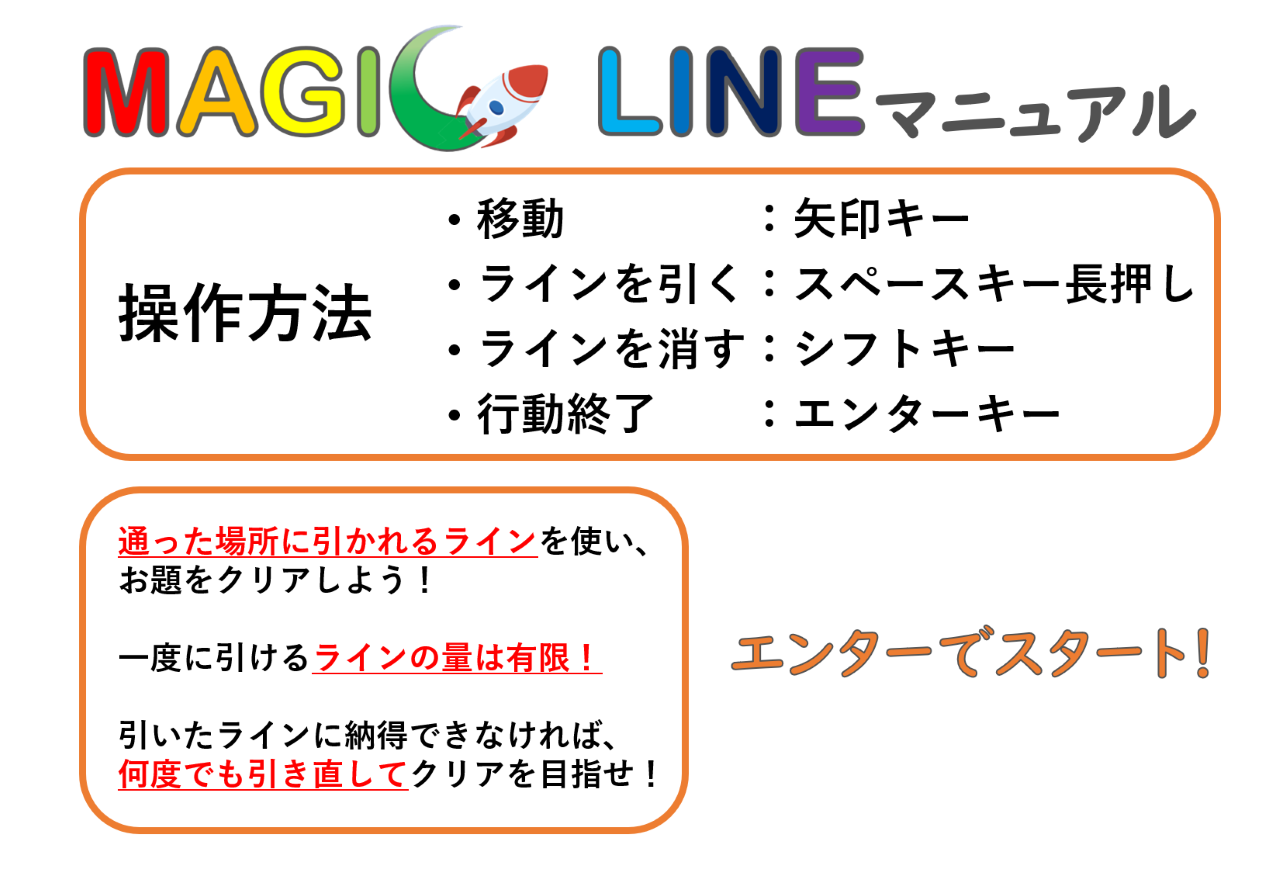
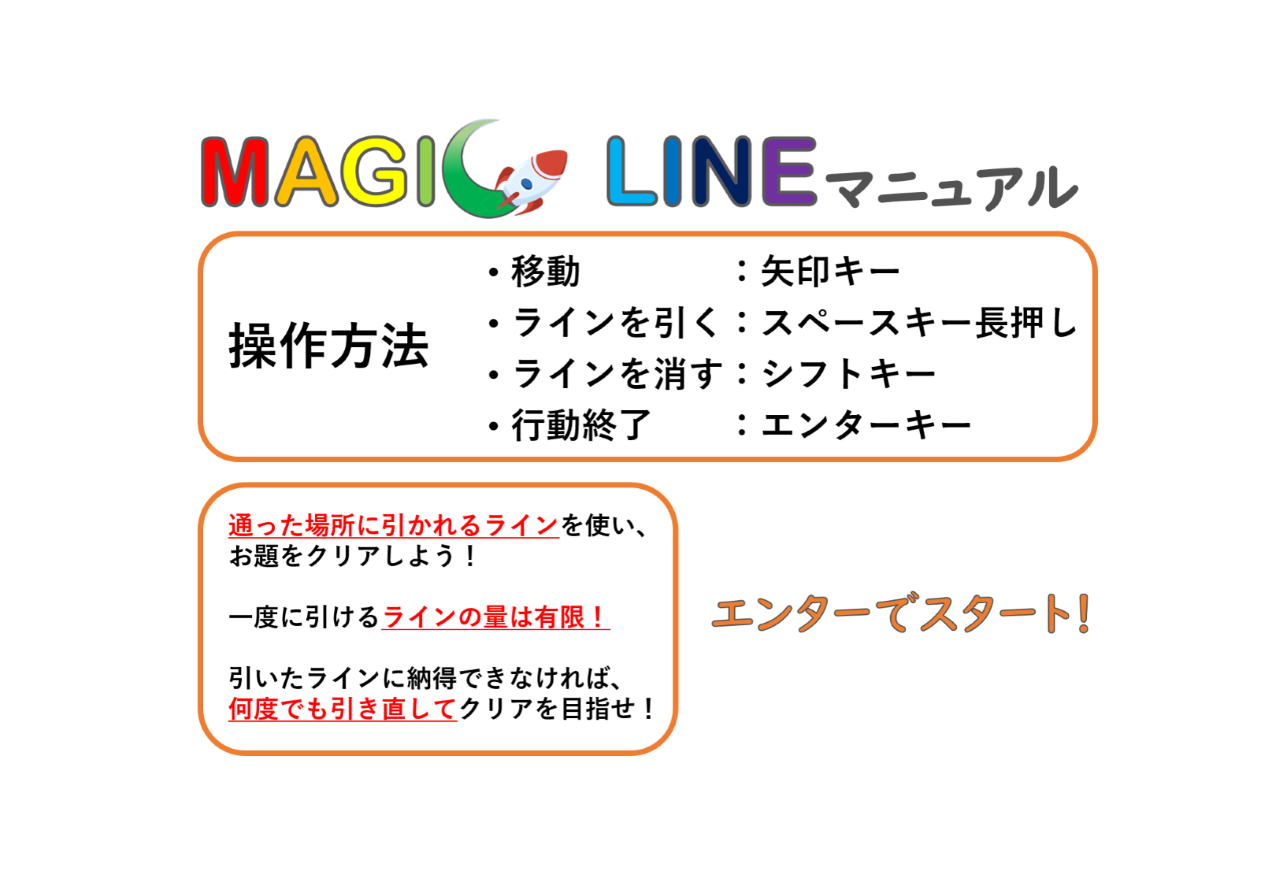
説明画像差し替え

Changed region(s): [[0.0625, 0.0309, 0.9688, 0.9588]]

diff --git a/Scenes/ExplanationScene.cpp b/Scenes/ExplanationScene.cpp
@@ -16,6 +16,9 @@ void ExplanationScene::Initialize()
 	assert(hPict_ >= 0);
 	hSelectSound_ = Audio::Load("Sounds/SoundEffect/SelectSound.wav");
 	assert(hSelectSound_ >= 0);
+
+	transform_.position_ = IMAGE_TRANS_POS;
+	transform_.scale_ = IMAGE_TRANS_SCALE;
 }
 
 void ExplanationScene::Update()
